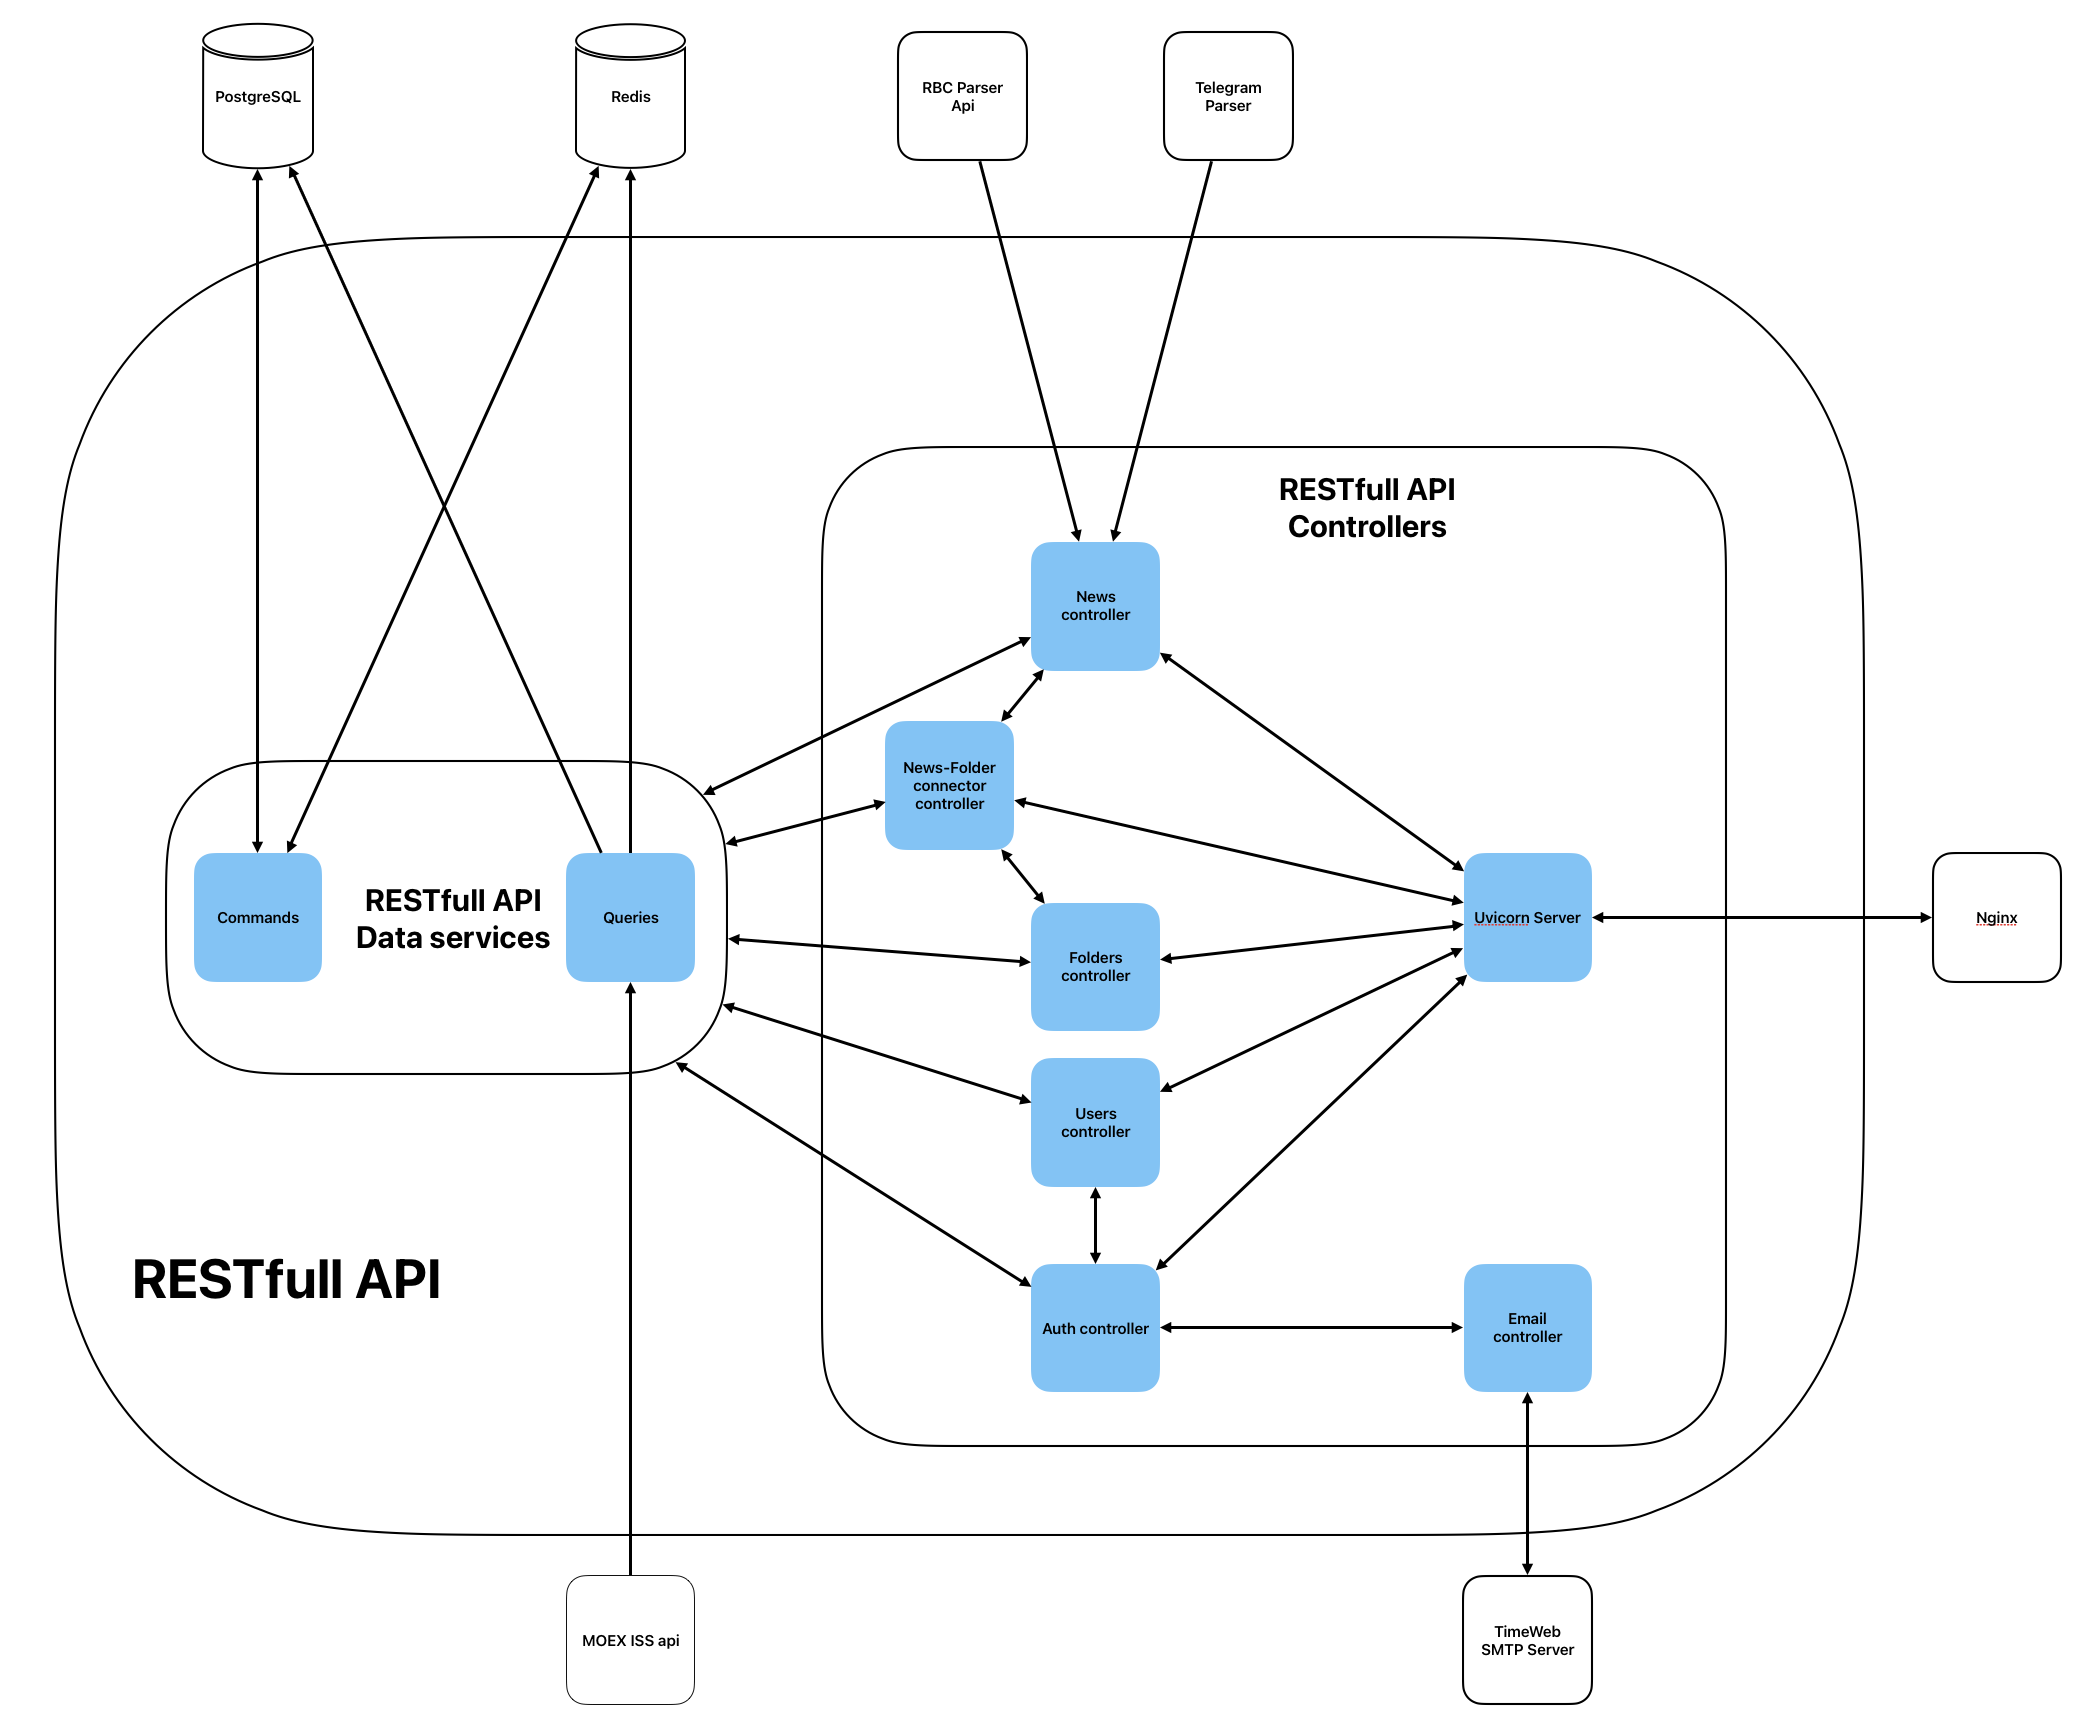
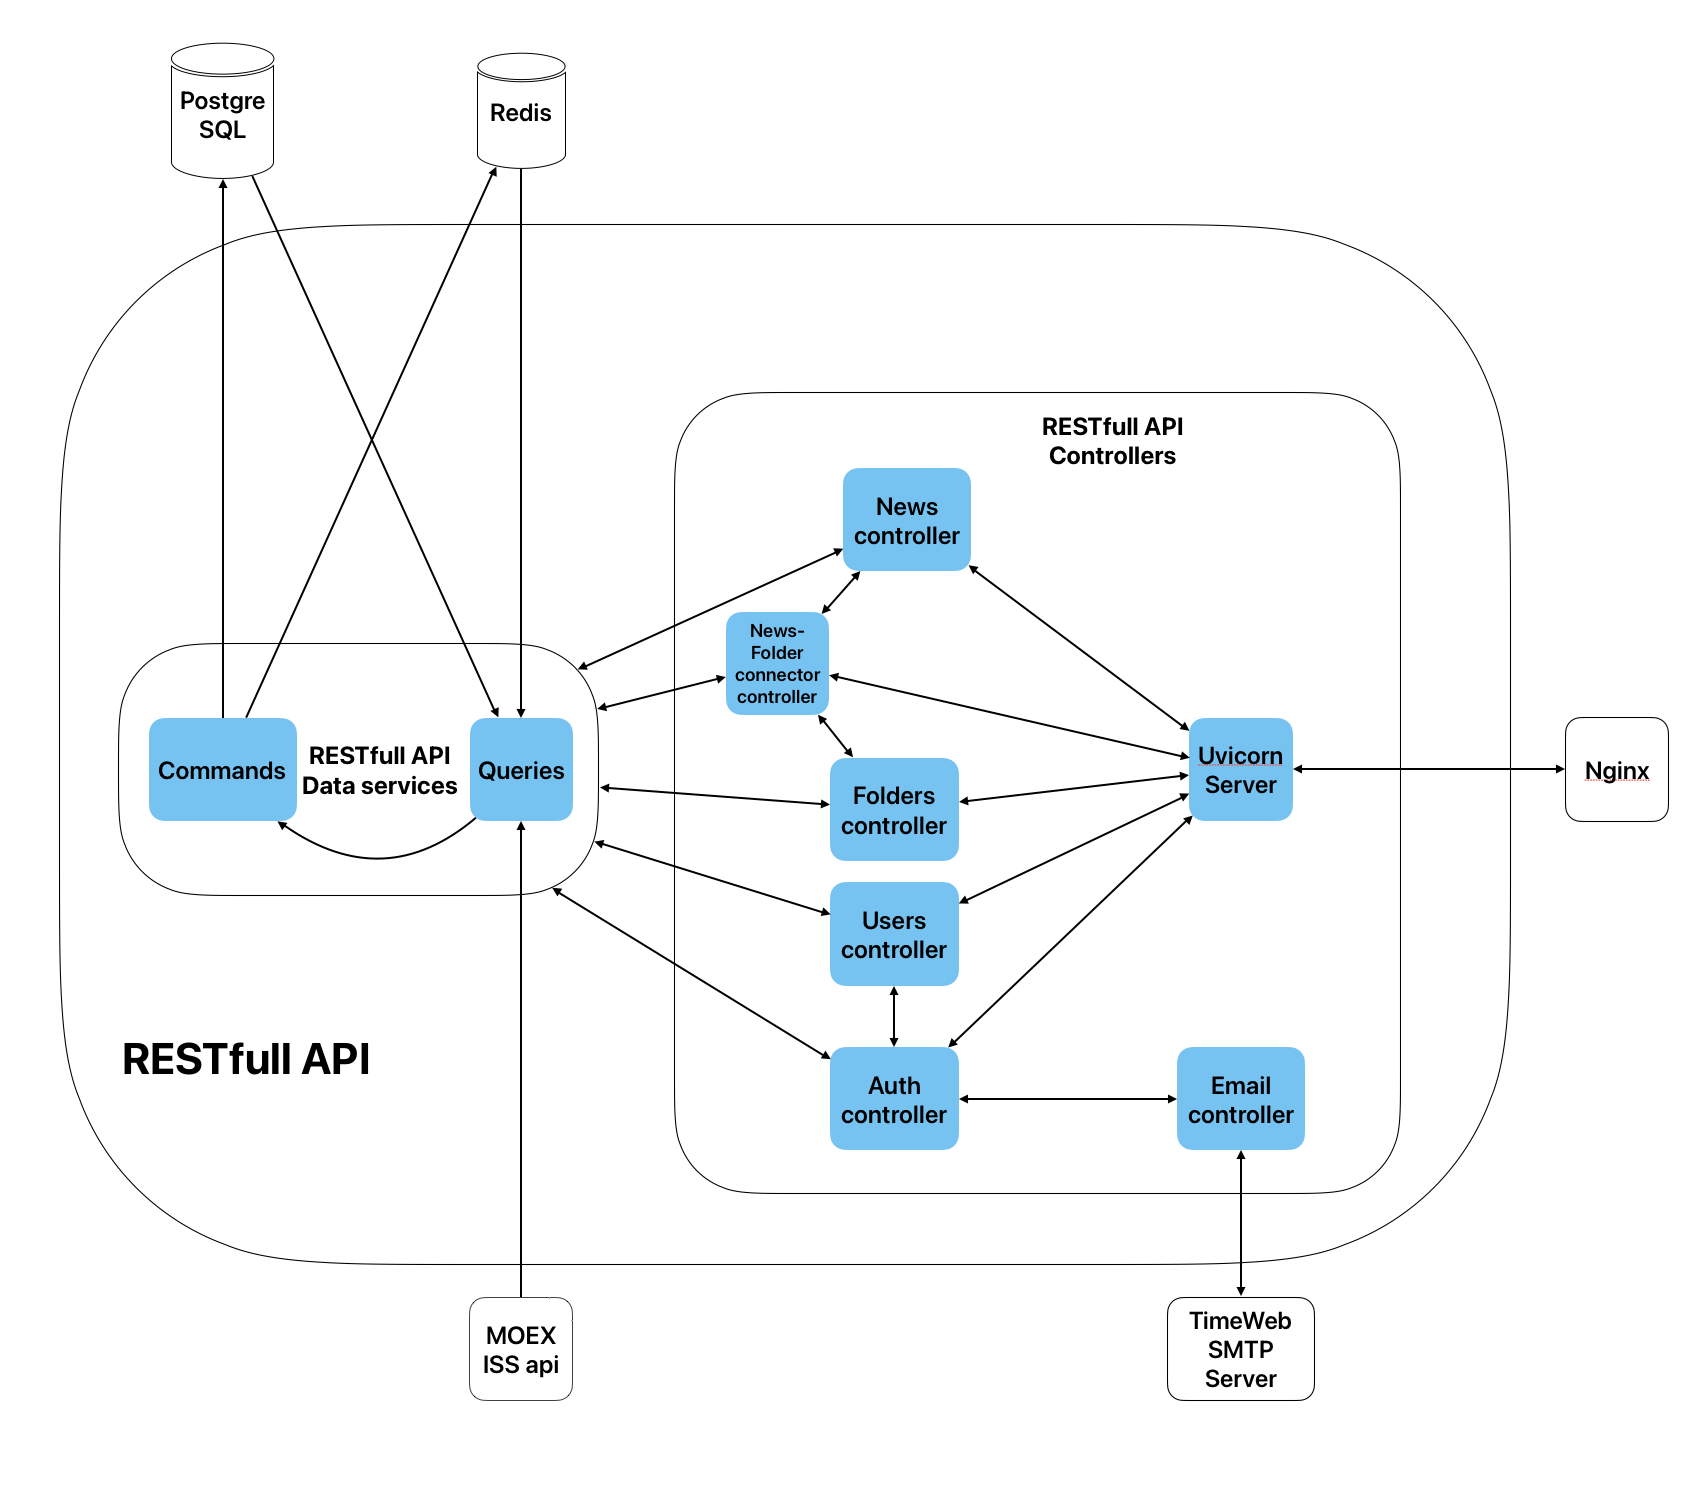
Обновлен Readme

diff --git a/README.md b/README.md
@@ -42,13 +42,14 @@ docker-compose up --build
 ![Архитектура Backend сервиса](readme_images/image-1.png)
 Проект реализован с микросервисной архитектурой. Включает в себя следующие сервисы:
 - `backend_service` - сервис, отвечающий за обработку запросов к API.
+- `backend_news_data_processor` - сервис, отвечающий за сохранение новых новостей в бд.
 - `frontend_service` - сервис, отвечающий за отображение данных на фронтенде.
 - `telegram_parsing_service` - сервис, отвечающий за парсинг данных из телеграмм каналов.
 - `website_parsing_service` - сервис, отвечающий за парсинг данных с сайта РБК.
 
 А также, хранилищами данных:
 - `api_service_db` - база данных для хранения данных, полученных из API.
-- `api_service_test_db` - база данных для тестирования сервиса `backend_service`.
+- `api_service_test_db` - база данных для тестирования сервиса `backend_service` и `backend_news_data_processor`.
 - `redis` - In-memory база данных для хранения временных кодов авторизации, кеширования данных. Также для обеспечения базопасности сообщения между сервисами, путем хранения временных токенов.
 
 Для доступа к хранилищам используется архитектурный паттерн CQRS. Доступ осуществляется <u>асинхронно</u>.
